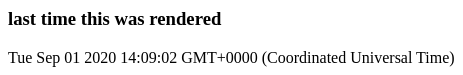
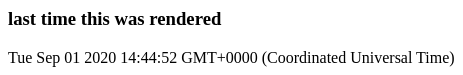
Updated markdown files

Changed region(s): [[0.3024, 0.6933, 0.3629, 0.8533]]

diff --git a/examples/javascript.md b/examples/javascript.md
@@ -17,14 +17,14 @@ console.table(table);
 ``` markdown-code-runner output
 the javascript code is run in node
 it can do maths
-17456.77106742658
+7746.523613409242
 and can render a table
 ┌─────────┬──────────┬───────┐
 │ (index) │   name   │ yummy │
 ├─────────┼──────────┼───────┤
-│    0    │ 'chips'  │   5   │
+│    0    │ 'chips'  │   3   │
 │    1    │ 'pizza'  │   3   │
-│    2    │ 'burger' │   7   │
+│    2    │ 'burger' │   0   │
 └─────────┴──────────┴───────┘
 ```
 
@@ -50,5 +50,5 @@ fetch('https://api.kanye.rest/')
 
 ``` markdown-code-runner output
 Kanye West quote:
-People only get jealous when they care.
+I love sleep; it's my favorite.
 ```

diff --git a/examples/bash.md b/examples/bash.md
@@ -9,8 +9,8 @@ echo date: $(date)
 ```
 
 ``` markdown-code-runner output
-hostname: fv-az56
+hostname: fv-az32
 shell: /bin/bash
 ls: LICENSE README.4.png README.md action.yml dist examples node_modules package.json setup-and-run.js src tsconfig.json yarn.lock
-date: Tue Sep 1 14:07:56 UTC 2020
+date: Tue Sep 1 14:43:39 UTC 2020
 ```

diff --git a/README.md b/README.md
@@ -17,7 +17,7 @@ console.log('hello world from typescript')
 
 ``` markdown-code-runner output
 
-> 5284760@1.0.0 start /tmp/5284760
+> 42807485@1.0.0 start /tmp/42807485
 > ts-node index.ts
 
 hello world from typescript

diff --git a/examples/typescript.md b/examples/typescript.md
@@ -10,7 +10,7 @@ console.log(hey("nick"));
 
 ``` markdown-code-runner output
 
-> 68253470@1.0.0 start /tmp/68253470
+> 25989226@1.0.0 start /tmp/25989226
 > ts-node index.ts
 
 Hello, nick

diff --git a/examples/python.md b/examples/python.md
@@ -16,5 +16,5 @@ else:
 
 ``` markdown-code-runner output
 running python code is easy
-all bets on red
+all bets on black
 ```
